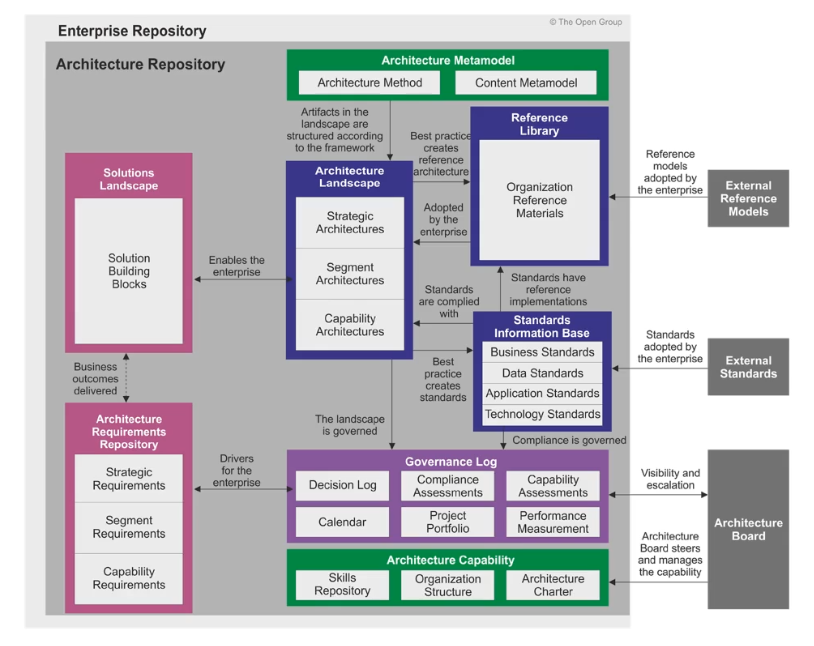
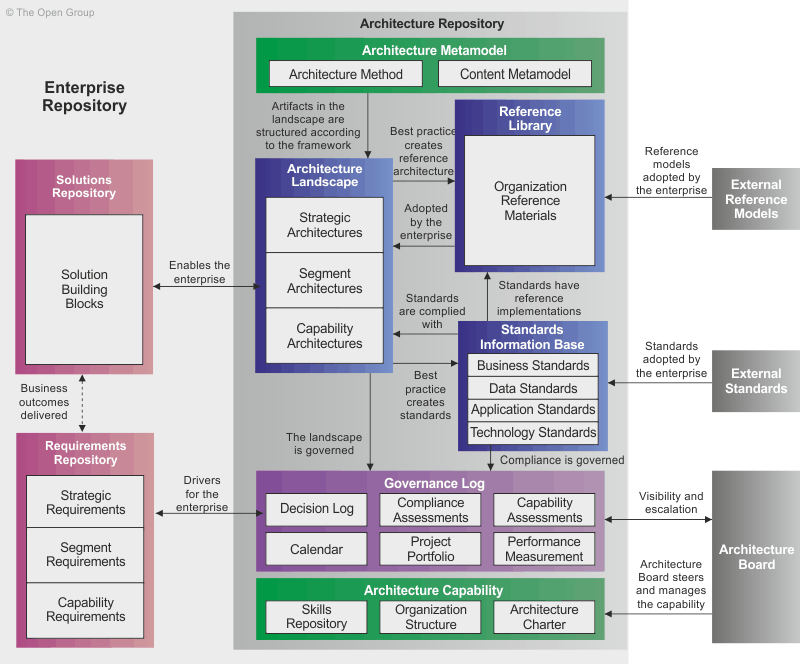
readme++

diff --git a/README.md b/README.md
@@ -116,3 +116,15 @@
 - The Solutions Continuum represents the detailed specification and construction of the architectures at the corresponding levels of the Architecture Continuum
 
 <p align="center"><img src="images/solution-continuum.png" width="700"></p>
+
+## Architecture Repository
+- The Architecture Repository provides the capability to link architectural assets to components of the Detailed Design, Deployment, and Service Management Repositories
+- At a high level, six classes of architectural information are expected to be held within an Architecture Repository:
+	- The **Architecture Metamodel** describes the organizationally tailored application of an architecture framework, including a method for architecture development and a metamodel for architecture content
+    - The **Architecture Capability** defines the parameters, structures, and processes that support governance of the Architecture Repository
+    - The **Architecture Landscape** presents an architectural representation of assets in use, or planned, by the enterprise at particular points in time
+    - The **Standards Information Base** captures the standards with which new architectures must comply, which may include industry standards, selected products and services from suppliers, or shared services already deployed within the organization
+    - The **Reference Library** provides guidelines, templates, patterns, and other forms of reference material that can be leveraged in order to accelerate the creation of new architectures for the enterprise
+    - The **Governance Log** provides a record of governance activity across the enterprise
+
+<p align="center"><img src="images/arch-repo.png" width="700"></p>
